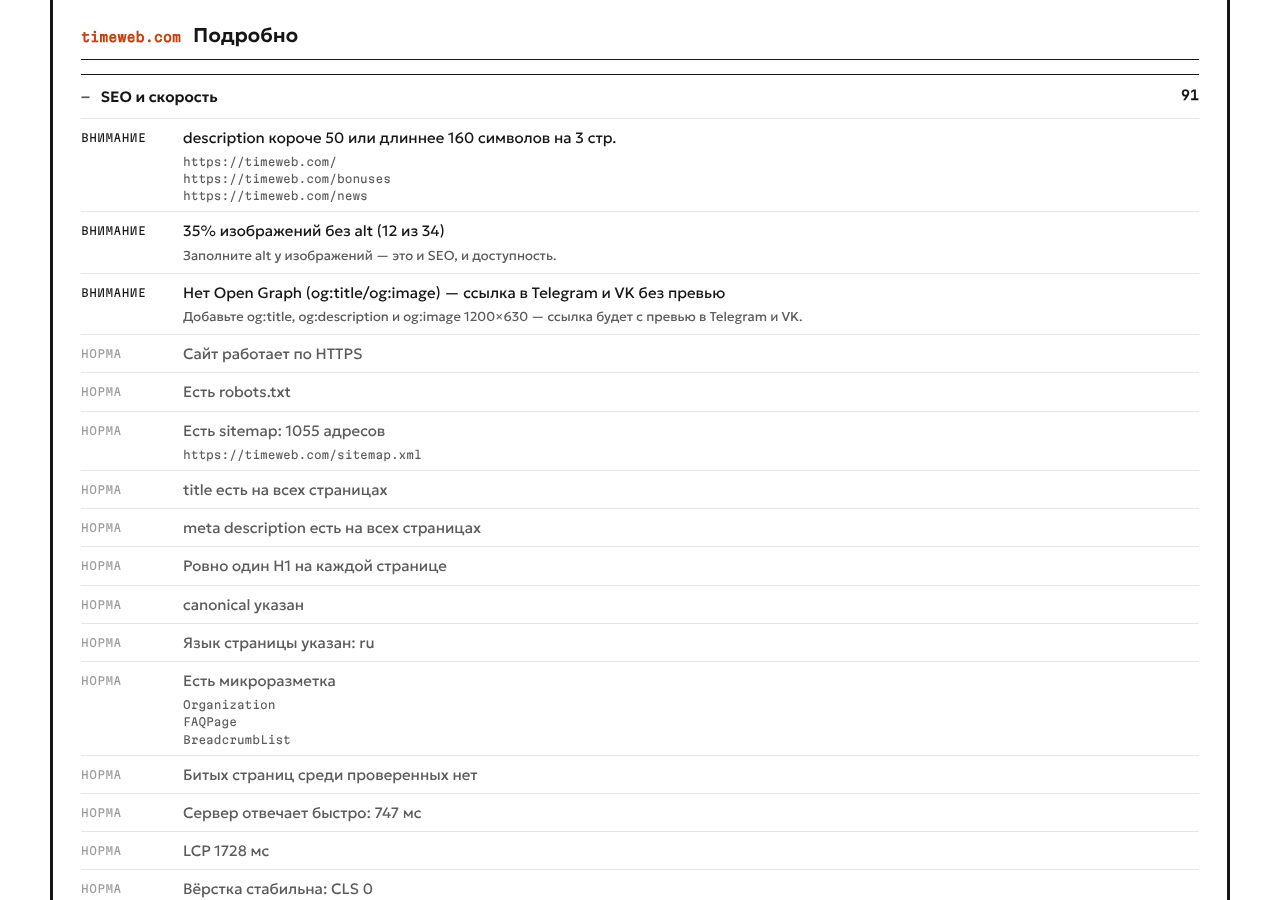
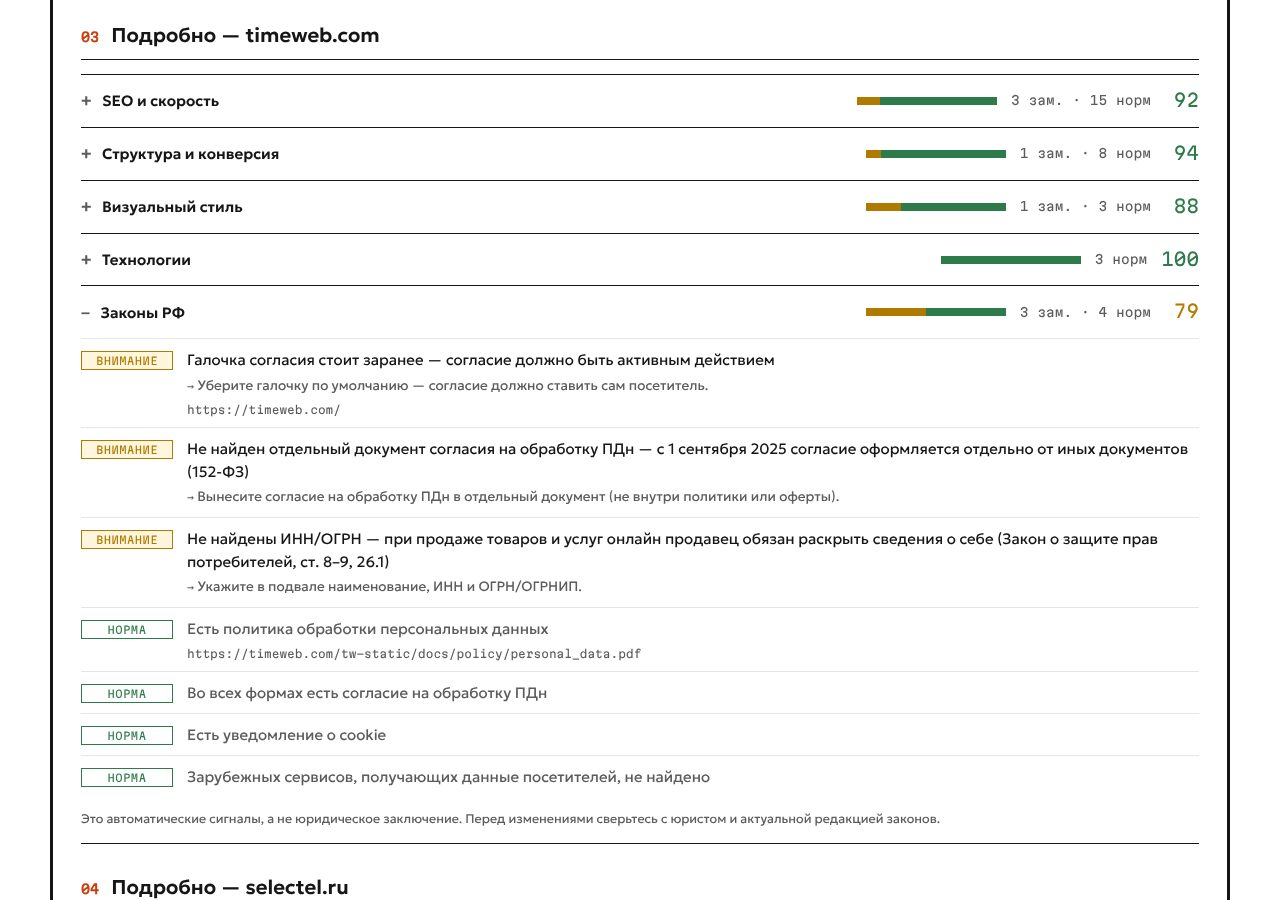
Медиа из реального прогона, прогресс без оценки для сайтов под защитой

diff --git a/src/collect.ts b/src/collect.ts
@@ -72,7 +72,8 @@ export async function collectSites(urls: string[], options: Partial<CollectOptio
       const rep = analyze(raw);
       reports.push(rep);
       if (raw.limited === "unreachable") onProgress?.(`  не удалось открыть: ${raw.skipped[0]?.reason ?? "нет ответа"}`);
-      else onProgress?.(`  ${raw.pages.length} стр., оценка ${rep.total}/100${raw.limited === "bot-protection" ? " (сайт отдал заглушку защиты от ботов — данные неполные)" : ""}`);
+      else if (raw.limited === "bot-protection") onProgress?.(`  сайт отдал заглушку защиты от ботов — проверка неполная`);
+      else onProgress?.(`  ${raw.pages.length} стр., оценка ${rep.total}/100`);
     }
   } finally {
     await browser.close();
